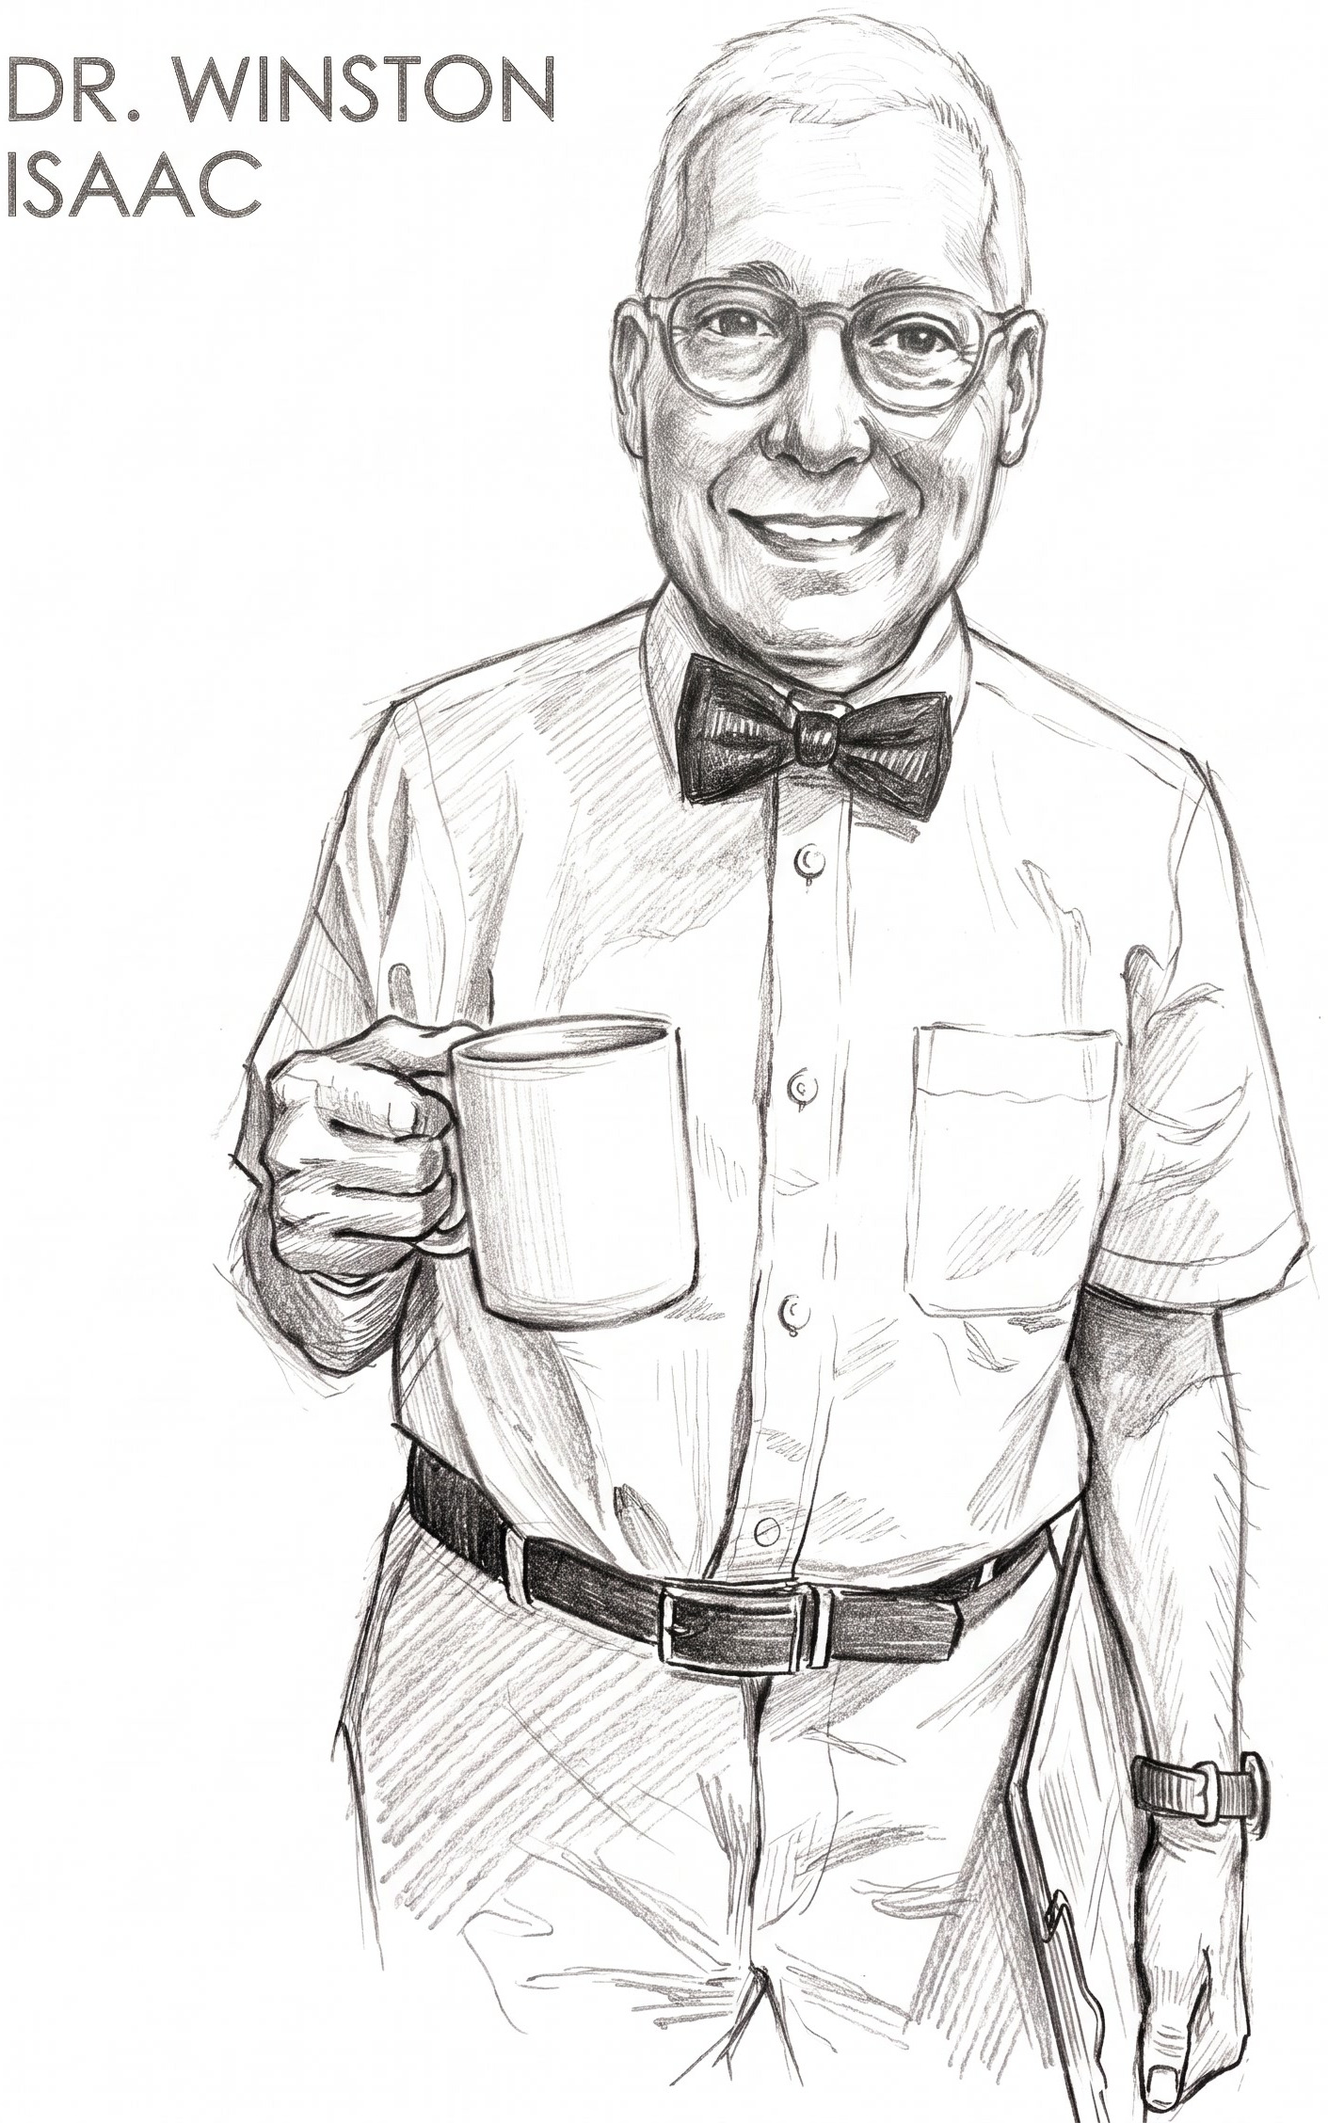
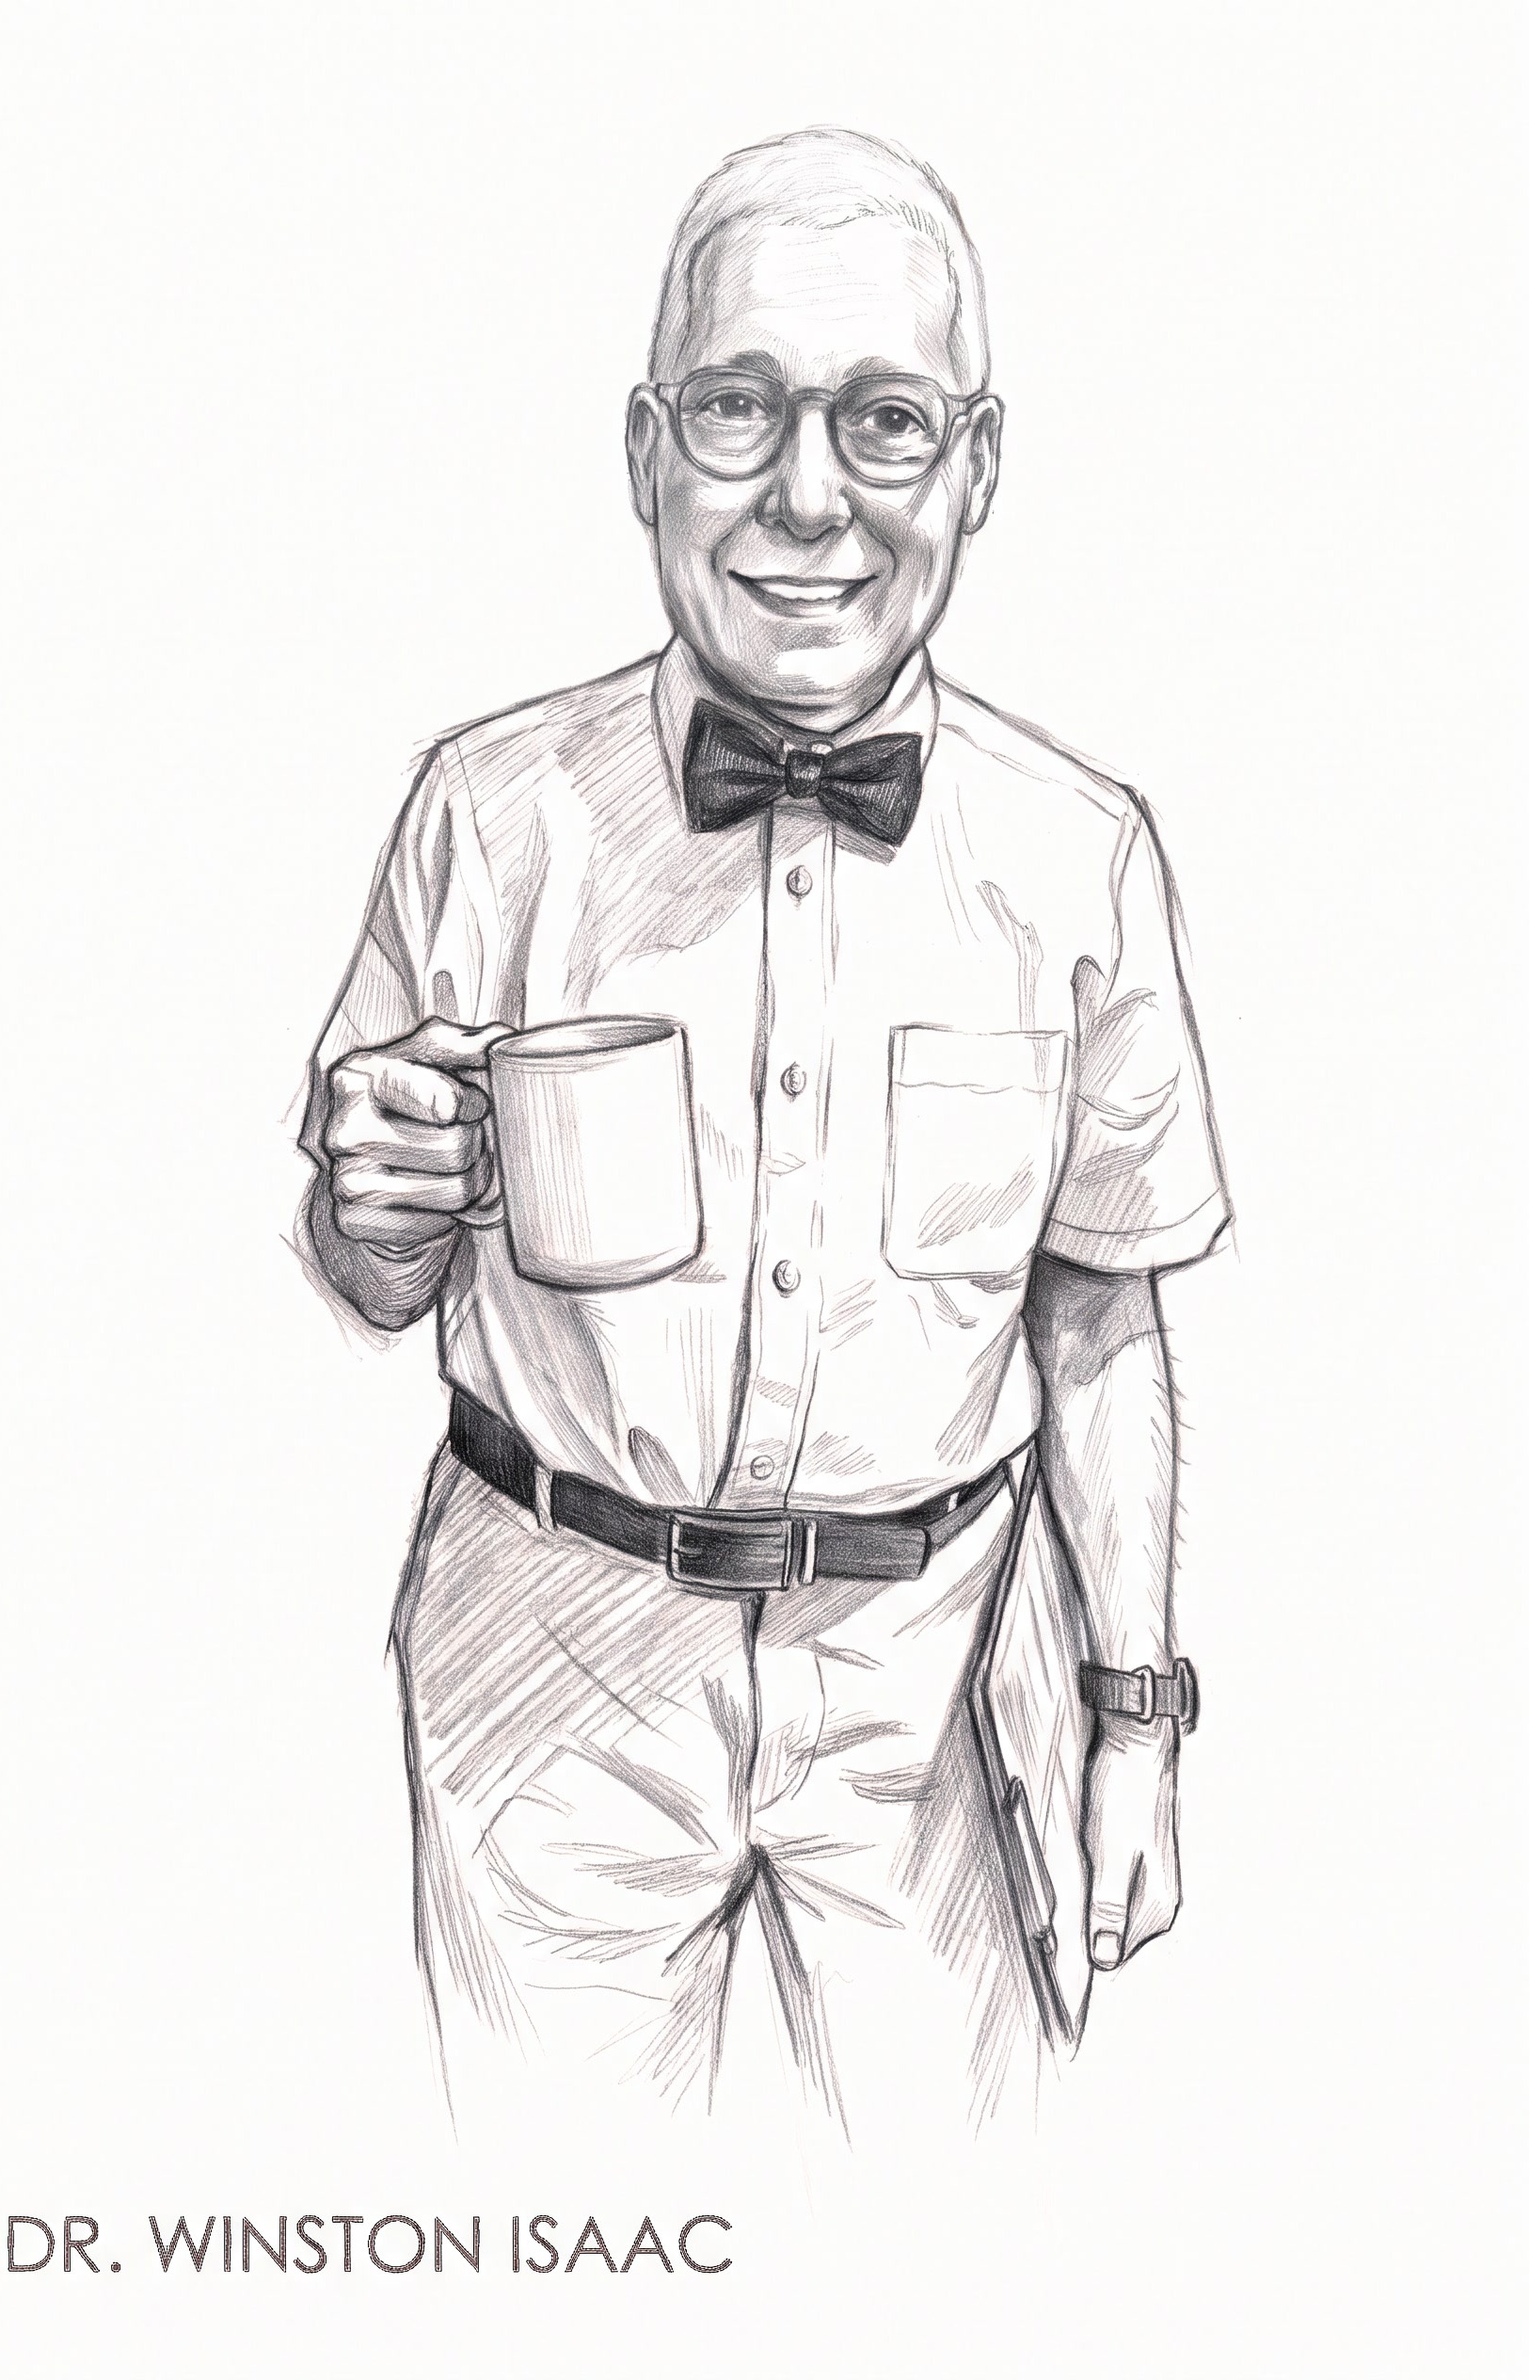
Move Dr. Winston Isaac drawing from Credits to the home page
- Home: drawing hangs in the right margin beside the "Special guests"
  paragraph (up to 315px wide, nudged up 25px on wide screens),
  continuing the Panda Head / Dos Zetas stagger
- New version of the drawing (label at the bottom), with the white
  space left of the label trimmed so it sits closer to the text
- Credits: drawing removed; the Dr. Winston Isaac text entry stays

diff --git a/index.html b/index.html
@@ -61,6 +61,8 @@
 
     <p>Notwithstanding, while the crusade against ill-intentioned forces is a reoccurring theme throughout the odyssey, the side jaunts are equally compelling. The voyage stretches from the obscure nebulae of Knowhere to the storied Sea of Tranquility, past the Archipelago of Quantalandia to the shores of Shambhala. The route less traveled is never-ending, as yet a still unmapped territory filled with wonder and awe. Please remember to keep your arms inside the Express cars at all times thank you.</p>
 
+    <img class="pull-right pull-out" style="--pull-w: 315px; --pull-shift: -25px" src="images/dr-winston-isaac.jpg" alt="Drawing of Dr. Winston Isaac" width="1625" height="2528">
+
     <p>Special guests include a space-alien created artificial intelligence giving an explicatory talk on the source of the celebrated Philosopher’s Stone. It will also expound upon the enigma of Dark Something, last surviving remnant from before the Big Bang.</p>
 
     <p>For your security a motley posse of peculiar characters will escort you through the alternate universe that is patently strange, but what is stranger than that…is how much it resembles our own world.</p>

diff --git a/credits.html b/credits.html
@@ -66,8 +66,6 @@
     <p>DON PABLO:<br>
     Russ Serrano, 1969 grad of El Rancho High School…unlike Don Pablo he is easy going, affable and forever smiling. Nonetheless I thought him an excellent resemblance to my character. He lives in Carlsbad, CA with his wife Mary.</p>
 
-    <img class="pull-right pull-out" style="--pull-w: 280px; --pull-shift: -50px" src="images/dr-winston-isaac.jpg" alt="Drawing of Dr. Winston Isaac" width="1411" height="2256">
-
     <p>DR. WINSTON ISAAC:<br>
     David Sheldon: Retired speech therapist, Chicago native. Attended Western Illinois university. Enjoys trying new restaurants, president of homeowners association. Avid Chicago Bears fan and soccer enthusiast.</p>
 
